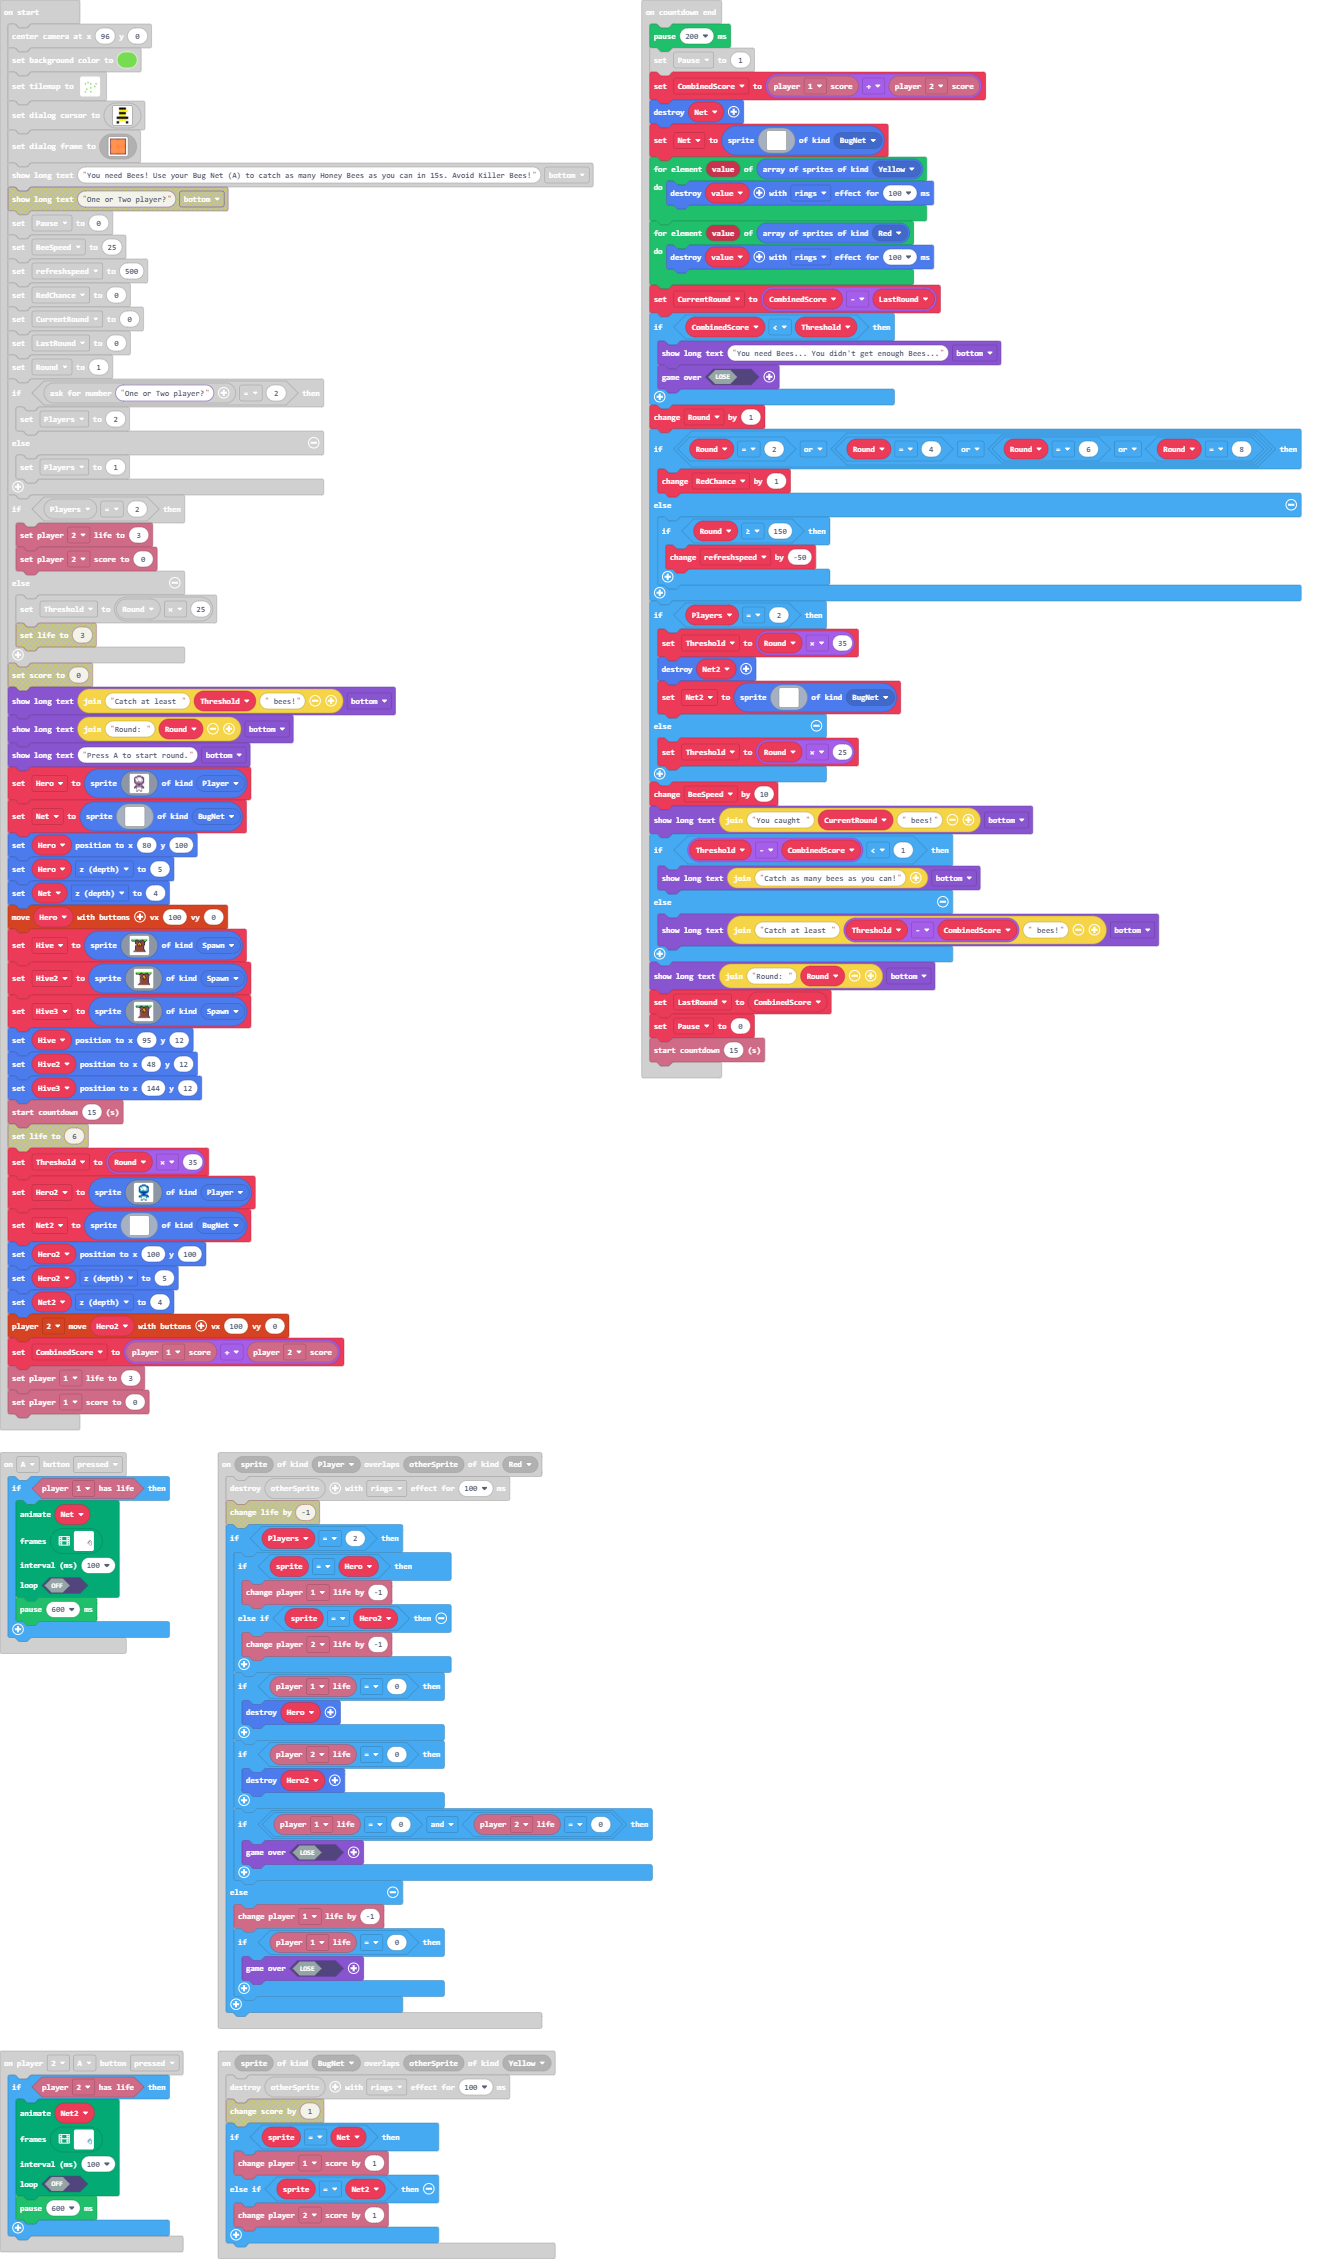
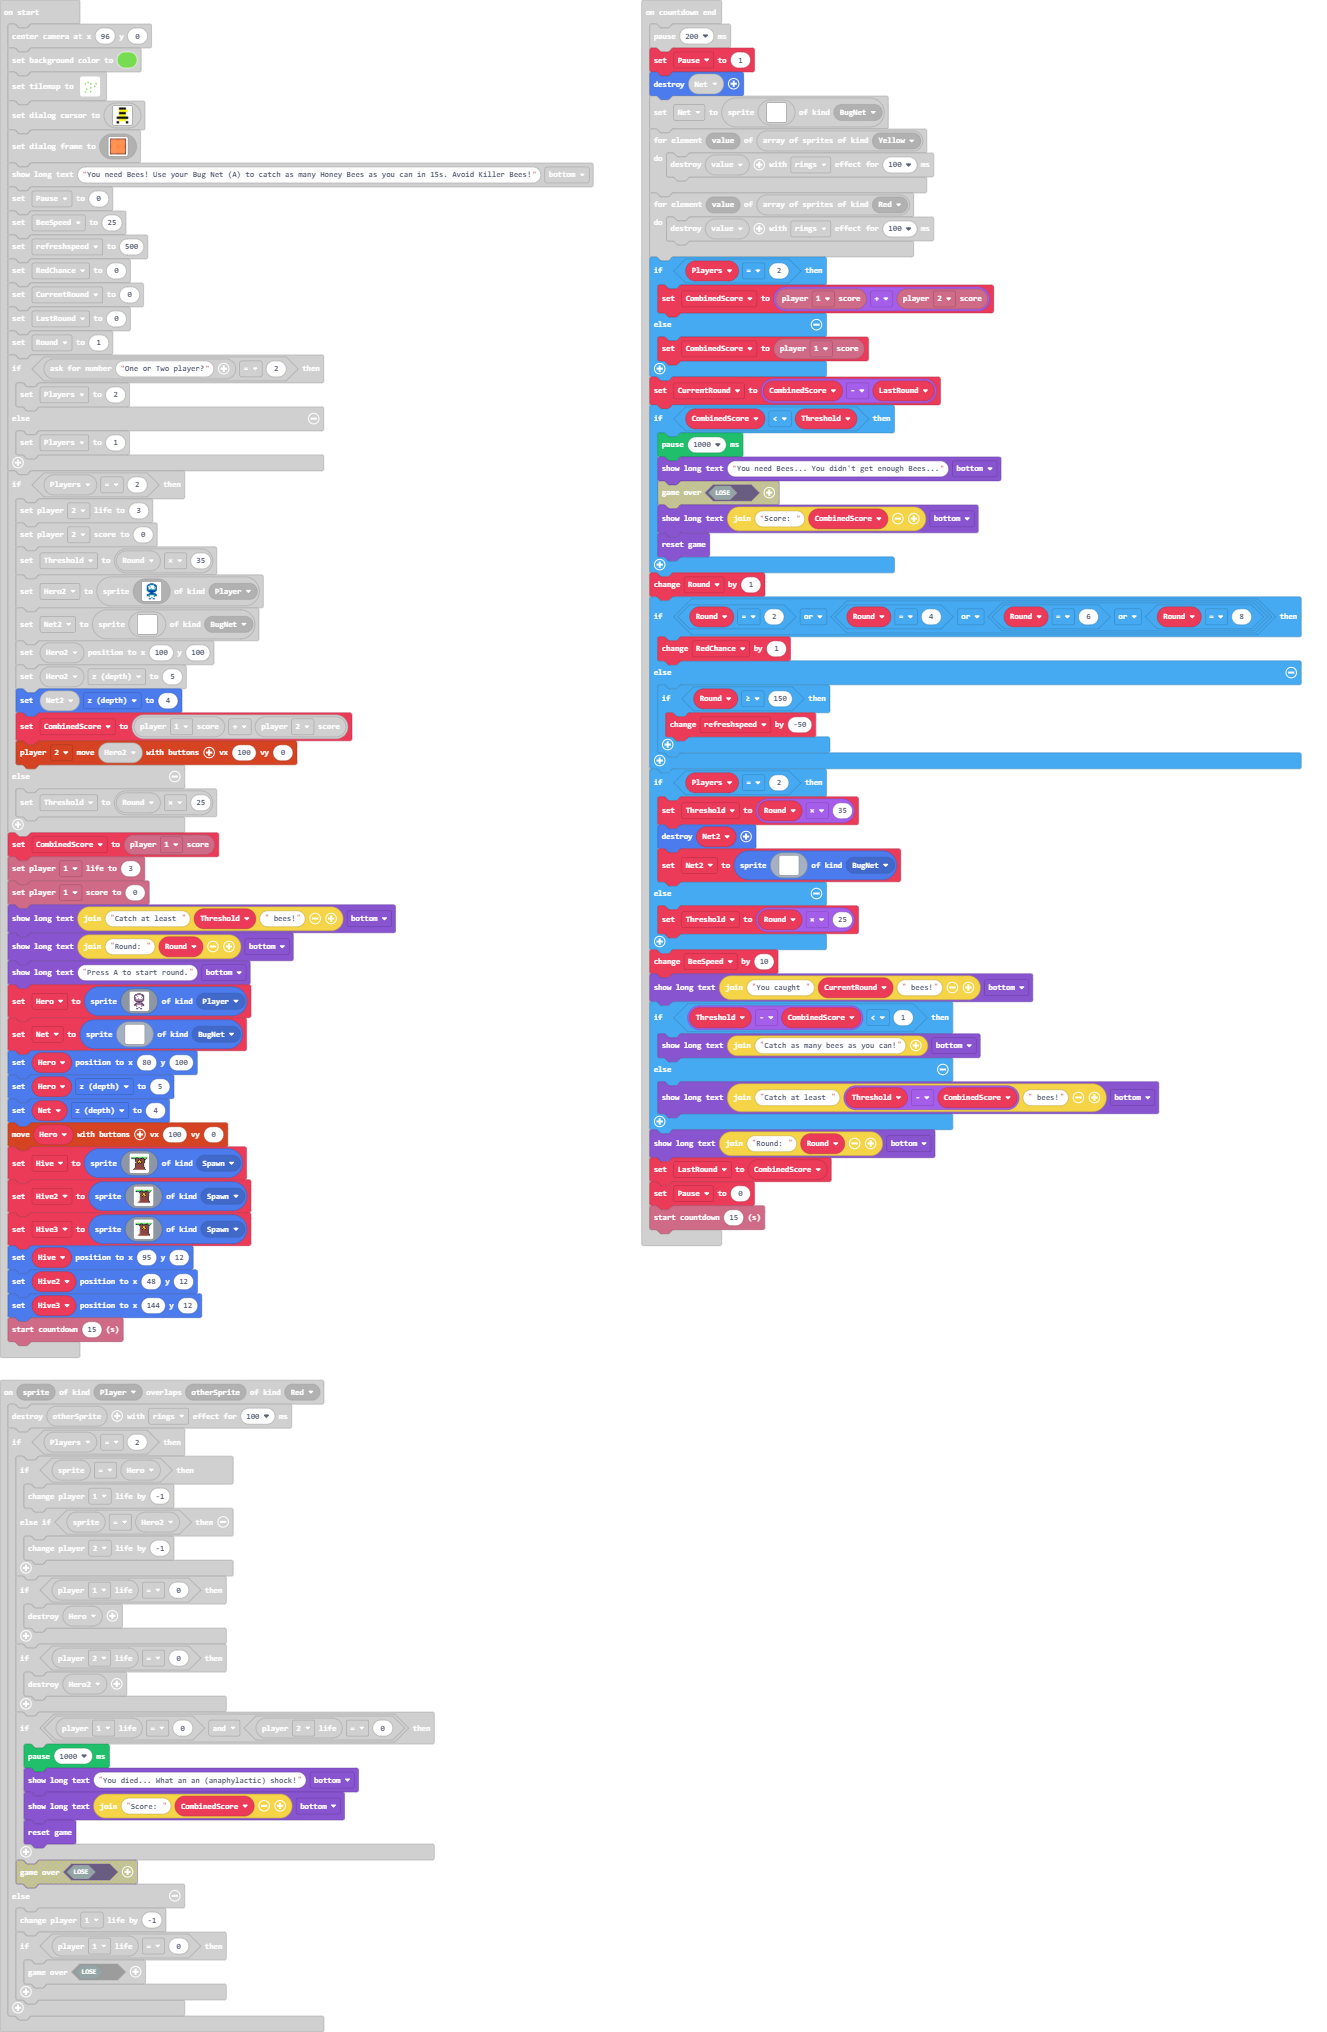
Update main.blocks, main.ts

diff --git a/main.ts b/main.ts
@@ -288,7 +288,6 @@ scene.onHitWall(SpriteKind.Red, function (sprite, location) {
 info.onCountdownEnd(function () {
     pause(200)
     Pause = 1
-    CombinedScore = info.player1.score() + info.player2.score()
     Net.destroy()
     Net = sprites.create(img`
         .........................
@@ -316,10 +315,17 @@ info.onCountdownEnd(function () {
     for (let value of sprites.allOfKind(SpriteKind.Red)) {
         value.destroy()
     }
+    if (Players == 2) {
+        CombinedScore = info.player1.score() + info.player2.score()
+    } else {
+        CombinedScore = info.player1.score()
+    }
     CurrentRound = CombinedScore - LastRound
     if (CombinedScore < Threshold) {
+        pause(1000)
         game.showLongText("You need Bees... You didn't get enough Bees...", DialogLayout.Bottom)
-        game.over(false)
+        game.showLongText("Score: " + CombinedScore, DialogLayout.Bottom)
+        game.reset()
     }
     Round += 1
     if (Round == 2 || (Round == 4 || (Round == 6 || Round == 8))) {
@@ -390,7 +396,10 @@ sprites.onOverlap(SpriteKind.Player, SpriteKind.Red, function (sprite, otherSpri
             Hero2.destroy()
         }
         if (info.player1.life() == 0 && info.player2.life() == 0) {
-            game.over(false)
+            pause(1000)
+            game.showLongText("You died... What an an (anaphylactic) shock!", DialogLayout.Bottom)
+            game.showLongText("Score: " + CombinedScore, DialogLayout.Bottom)
+            game.reset()
         }
     } else {
         info.player1.changeLifeBy(-1)
@@ -515,11 +524,12 @@ if (Players == 2) {
     Hero2.setPosition(100, 100)
     Hero2.z = 5
     Net2.z = 4
+    CombinedScore = info.player1.score() + info.player2.score()
     controller.player2.moveSprite(Hero2, 100, 0)
 } else {
     Threshold = Round * 25
 }
-CombinedScore = info.player1.score() + info.player2.score()
+CombinedScore = info.player1.score()
 info.player1.setLife(3)
 info.player1.setScore(0)
 game.showLongText("Catch at least " + Threshold + " bees!", DialogLayout.Bottom)
